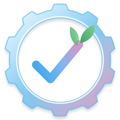
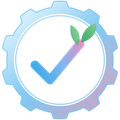
Знак с прозрачным фоном: вкладка (крупнее, без тени) и подвал

Changed region(s): [[0.0, 0.0, 1.0, 1.0], [0.25, 0.5, 0.475, 0.725], [0.475, 0.5, 0.6, 0.65]]

diff --git a/index.html b/index.html
@@ -15,7 +15,7 @@
 <meta property="og:image:width" content="1200">
 <meta property="og:image:height" content="630">
 <meta name="twitter:card" content="summary_large_image">
-<link rel="icon" href="img/favicon.png?v=5" type="image/png">
+<link rel="icon" href="img/favicon.png?v=6" type="image/png">
 <link rel="apple-touch-icon" href="img/apple-touch-icon.png?v=5">
 <link rel="preload" href="fonts/manrope-cyr.woff2" as="font" type="font/woff2" crossorigin>
 <style>@font-face{font-family:'Manrope';font-style:normal;font-weight:300 700;font-display:swap;src:url(fonts/manrope-cyr.woff2) format('woff2');unicode-range:U+0301,U+0400-045F,U+0490-0491,U+04B0-04B1,U+2116}@font-face{font-family:'Manrope';font-style:normal;font-weight:300 700;font-display:swap;src:url(fonts/manrope-lat.woff2) format('woff2');unicode-range:U+0000-00FF,U+0131,U+0152-0153,U+02BB-02BC,U+02C6,U+02DA,U+02DC,U+0304,U+0308,U+0329,U+2000-206F,U+20AC,U+2122,U+2191,U+2193,U+2212,U+2215,U+FEFF,U+FFFD}:root{padding-top:env(safe-area-inset-top,0px);padding-bottom:env(safe-area-inset-bottom,0px)}body{margin:0}
@@ -476,7 +476,7 @@ button.tile:hover{transform:translateY(-2px)}
   </section>
 </main>
 
-<footer><a href="./">Главная</a><a href="otdelka.html">Кейс «Отделка»</a><a href="perevozki.html">Кейс «Перевозки»</a><a href="./#podarok">Подарок: головоломка</a><a href="./#obo-mne">Обо мне</a><a href="https://vk.ru/erpintable" target="_blank" rel="noopener">ВКонтакте</a><a href="#" data-avito>Авито</a><a href="#">Профи.ру</a><a href="#">Яндекс Услуги</a><div class="req">ИП&nbsp;Мальцева Ирина Евгеньевна · ОГРНИП 309231530100060 от&nbsp;28.10.2009 · Работаю по&nbsp;договору, оплата на&nbsp;расчётный счёт</div><div class="motto"><img src="img/vmalom-znak.png" width="40" height="40" alt=""><span><b>vmalom.ru</b>&nbsp;— учёт, верный в&nbsp;малом бизнесе. А&nbsp;«верный в&nbsp;малом и&nbsp;во&nbsp;многом верен» (Лк 16:10)</span></div></footer>
+<footer><a href="./">Главная</a><a href="otdelka.html">Кейс «Отделка»</a><a href="perevozki.html">Кейс «Перевозки»</a><a href="./#podarok">Подарок: головоломка</a><a href="./#obo-mne">Обо мне</a><a href="https://vk.ru/erpintable" target="_blank" rel="noopener">ВКонтакте</a><a href="#" data-avito>Авито</a><a href="#">Профи.ру</a><a href="#">Яндекс Услуги</a><div class="req">ИП&nbsp;Мальцева Ирина Евгеньевна · ОГРНИП 309231530100060 от&nbsp;28.10.2009 · Работаю по&nbsp;договору, оплата на&nbsp;расчётный счёт</div><div class="motto"><img src="img/vmalom-znak.png?v=2" width="40" height="40" alt=""><span><b>vmalom.ru</b>&nbsp;— учёт, верный в&nbsp;малом бизнесе. А&nbsp;«верный в&nbsp;малом и&nbsp;во&nbsp;многом верен» (Лк 16:10)</span></div></footer>
 <div class="modal" id="avm" hidden><div class="mbox gl" role="dialog" aria-modal="true" aria-labelledby="avmt"><button class="mx" type="button" aria-label="Закрыть">×</button><img src="img/avito-card.webp" alt="Обложка объявления: «Сведу то, что не сходится», Архитектор ERP" width="320" height="320"><h3 id="avmt">Как найти меня на&nbsp;Авито</h3><p>Ищите карточку с&nbsp;этой обложкой по&nbsp;запросу:</p><span class="btn sec mail">Разработка учётных систем, CRM и&nbsp;Google Таблиц</span><a class="btn pri" href="https://www.avito.ru/moskva/predlozheniya_uslug?q=%D0%A0%D0%B0%D0%B7%D1%80%D0%B0%D0%B1%D0%BE%D1%82%D0%BA%D0%B0%20%D1%83%D1%87%D1%91%D1%82%D0%BD%D1%8B%D1%85%20%D1%81%D0%B8%D1%81%D1%82%D0%B5%D0%BC%2C%20CRM%20%D0%B8%20Google%20%D0%A2%D0%B0%D0%B1%D0%BB%D0%B8%D1%86" target="_blank" rel="noopener">Открыть поиск Авито</a><small>Запрос уже будет в&nbsp;строке поиска. Нажмите на&nbsp;него выше, чтобы скопировать.</small></div></div>
 <script>
 // при обновлении страницы — всегда наверх

diff --git a/otdelka.html b/otdelka.html
@@ -15,7 +15,7 @@
 <meta property="og:image:width" content="1200">
 <meta property="og:image:height" content="630">
 <meta name="twitter:card" content="summary_large_image">
-<link rel="icon" href="img/favicon.png?v=5" type="image/png">
+<link rel="icon" href="img/favicon.png?v=6" type="image/png">
 <link rel="apple-touch-icon" href="img/apple-touch-icon.png?v=5">
 <link rel="preload" href="fonts/manrope-cyr.woff2" as="font" type="font/woff2" crossorigin>
 <style>@font-face{font-family:'Manrope';font-style:normal;font-weight:300 700;font-display:swap;src:url(fonts/manrope-cyr.woff2) format('woff2');unicode-range:U+0301,U+0400-045F,U+0490-0491,U+04B0-04B1,U+2116}@font-face{font-family:'Manrope';font-style:normal;font-weight:300 700;font-display:swap;src:url(fonts/manrope-lat.woff2) format('woff2');unicode-range:U+0000-00FF,U+0131,U+0152-0153,U+02BB-02BC,U+02C6,U+02DA,U+02DC,U+0304,U+0308,U+0329,U+2000-206F,U+20AC,U+2122,U+2191,U+2193,U+2212,U+2215,U+FEFF,U+FFFD}:root{padding-top:env(safe-area-inset-top,0px);padding-bottom:env(safe-area-inset-bottom,0px)}body{margin:0}
@@ -432,7 +432,7 @@ button.tile:hover{transform:translateY(-2px)}
   </section>
 </main>
 
-<footer><a href="./">Главная</a><a href="otdelka.html">Кейс «Отделка»</a><a href="perevozki.html">Кейс «Перевозки»</a><a href="./#podarok">Подарок: головоломка</a><a href="./#obo-mne">Обо мне</a><a href="https://vk.ru/erpintable" target="_blank" rel="noopener">ВКонтакте</a><a href="#" data-avito>Авито</a><a href="#">Профи.ру</a><a href="#">Яндекс Услуги</a><div class="req">ИП&nbsp;Мальцева Ирина Евгеньевна · ОГРНИП 309231530100060 от&nbsp;28.10.2009 · Работаю по&nbsp;договору, оплата на&nbsp;расчётный счёт</div><div class="motto"><img src="img/vmalom-znak.png" width="40" height="40" alt=""><span><b>vmalom.ru</b>&nbsp;— учёт, верный в&nbsp;малом бизнесе. А&nbsp;«верный в&nbsp;малом и&nbsp;во&nbsp;многом верен» (Лк 16:10)</span></div></footer>
+<footer><a href="./">Главная</a><a href="otdelka.html">Кейс «Отделка»</a><a href="perevozki.html">Кейс «Перевозки»</a><a href="./#podarok">Подарок: головоломка</a><a href="./#obo-mne">Обо мне</a><a href="https://vk.ru/erpintable" target="_blank" rel="noopener">ВКонтакте</a><a href="#" data-avito>Авито</a><a href="#">Профи.ру</a><a href="#">Яндекс Услуги</a><div class="req">ИП&nbsp;Мальцева Ирина Евгеньевна · ОГРНИП 309231530100060 от&nbsp;28.10.2009 · Работаю по&nbsp;договору, оплата на&nbsp;расчётный счёт</div><div class="motto"><img src="img/vmalom-znak.png?v=2" width="40" height="40" alt=""><span><b>vmalom.ru</b>&nbsp;— учёт, верный в&nbsp;малом бизнесе. А&nbsp;«верный в&nbsp;малом и&nbsp;во&nbsp;многом верен» (Лк 16:10)</span></div></footer>
 <div class="modal" id="avm" hidden><div class="mbox gl" role="dialog" aria-modal="true" aria-labelledby="avmt"><button class="mx" type="button" aria-label="Закрыть">×</button><img src="img/avito-card.webp" alt="Обложка объявления: «Сведу то, что не сходится», Архитектор ERP" width="320" height="320"><h3 id="avmt">Как найти меня на&nbsp;Авито</h3><p>Ищите карточку с&nbsp;этой обложкой по&nbsp;запросу:</p><span class="btn sec mail">Разработка учётных систем, CRM и&nbsp;Google Таблиц</span><a class="btn pri" href="https://www.avito.ru/moskva/predlozheniya_uslug?q=%D0%A0%D0%B0%D0%B7%D1%80%D0%B0%D0%B1%D0%BE%D1%82%D0%BA%D0%B0%20%D1%83%D1%87%D1%91%D1%82%D0%BD%D1%8B%D1%85%20%D1%81%D0%B8%D1%81%D1%82%D0%B5%D0%BC%2C%20CRM%20%D0%B8%20Google%20%D0%A2%D0%B0%D0%B1%D0%BB%D0%B8%D1%86" target="_blank" rel="noopener">Открыть поиск Авито</a><small>Запрос уже будет в&nbsp;строке поиска. Нажмите на&nbsp;него выше, чтобы скопировать.</small></div></div>
 <script>
 // при обновлении страницы — всегда наверх

diff --git a/perevozki.html b/perevozki.html
@@ -15,7 +15,7 @@
 <meta property="og:image:width" content="1200">
 <meta property="og:image:height" content="630">
 <meta name="twitter:card" content="summary_large_image">
-<link rel="icon" href="img/favicon.png?v=5" type="image/png">
+<link rel="icon" href="img/favicon.png?v=6" type="image/png">
 <link rel="apple-touch-icon" href="img/apple-touch-icon.png?v=5">
 <link rel="preload" href="fonts/manrope-cyr.woff2" as="font" type="font/woff2" crossorigin>
 <style>@font-face{font-family:'Manrope';font-style:normal;font-weight:300 700;font-display:swap;src:url(fonts/manrope-cyr.woff2) format('woff2');unicode-range:U+0301,U+0400-045F,U+0490-0491,U+04B0-04B1,U+2116}@font-face{font-family:'Manrope';font-style:normal;font-weight:300 700;font-display:swap;src:url(fonts/manrope-lat.woff2) format('woff2');unicode-range:U+0000-00FF,U+0131,U+0152-0153,U+02BB-02BC,U+02C6,U+02DA,U+02DC,U+0304,U+0308,U+0329,U+2000-206F,U+20AC,U+2122,U+2191,U+2193,U+2212,U+2215,U+FEFF,U+FFFD}:root{padding-top:env(safe-area-inset-top,0px);padding-bottom:env(safe-area-inset-bottom,0px)}body{margin:0}
@@ -431,7 +431,7 @@ button.tile:hover{transform:translateY(-2px)}
   </section>
 </main>
 
-<footer><a href="./">Главная</a><a href="otdelka.html">Кейс «Отделка»</a><a href="perevozki.html">Кейс «Перевозки»</a><a href="./#podarok">Подарок: головоломка</a><a href="./#obo-mne">Обо мне</a><a href="https://vk.ru/erpintable" target="_blank" rel="noopener">ВКонтакте</a><a href="#" data-avito>Авито</a><a href="#">Профи.ру</a><a href="#">Яндекс Услуги</a><div class="req">ИП&nbsp;Мальцева Ирина Евгеньевна · ОГРНИП 309231530100060 от&nbsp;28.10.2009 · Работаю по&nbsp;договору, оплата на&nbsp;расчётный счёт</div><div class="motto"><img src="img/vmalom-znak.png" width="40" height="40" alt=""><span><b>vmalom.ru</b>&nbsp;— учёт, верный в&nbsp;малом бизнесе. А&nbsp;«верный в&nbsp;малом и&nbsp;во&nbsp;многом верен» (Лк 16:10)</span></div></footer>
+<footer><a href="./">Главная</a><a href="otdelka.html">Кейс «Отделка»</a><a href="perevozki.html">Кейс «Перевозки»</a><a href="./#podarok">Подарок: головоломка</a><a href="./#obo-mne">Обо мне</a><a href="https://vk.ru/erpintable" target="_blank" rel="noopener">ВКонтакте</a><a href="#" data-avito>Авито</a><a href="#">Профи.ру</a><a href="#">Яндекс Услуги</a><div class="req">ИП&nbsp;Мальцева Ирина Евгеньевна · ОГРНИП 309231530100060 от&nbsp;28.10.2009 · Работаю по&nbsp;договору, оплата на&nbsp;расчётный счёт</div><div class="motto"><img src="img/vmalom-znak.png?v=2" width="40" height="40" alt=""><span><b>vmalom.ru</b>&nbsp;— учёт, верный в&nbsp;малом бизнесе. А&nbsp;«верный в&nbsp;малом и&nbsp;во&nbsp;многом верен» (Лк 16:10)</span></div></footer>
 <div class="modal" id="avm" hidden><div class="mbox gl" role="dialog" aria-modal="true" aria-labelledby="avmt"><button class="mx" type="button" aria-label="Закрыть">×</button><img src="img/avito-card.webp" alt="Обложка объявления: «Сведу то, что не сходится», Архитектор ERP" width="320" height="320"><h3 id="avmt">Как найти меня на&nbsp;Авито</h3><p>Ищите карточку с&nbsp;этой обложкой по&nbsp;запросу:</p><span class="btn sec mail">Разработка учётных систем, CRM и&nbsp;Google Таблиц</span><a class="btn pri" href="https://www.avito.ru/moskva/predlozheniya_uslug?q=%D0%A0%D0%B0%D0%B7%D1%80%D0%B0%D0%B1%D0%BE%D1%82%D0%BA%D0%B0%20%D1%83%D1%87%D1%91%D1%82%D0%BD%D1%8B%D1%85%20%D1%81%D0%B8%D1%81%D1%82%D0%B5%D0%BC%2C%20CRM%20%D0%B8%20Google%20%D0%A2%D0%B0%D0%B1%D0%BB%D0%B8%D1%86" target="_blank" rel="noopener">Открыть поиск Авито</a><small>Запрос уже будет в&nbsp;строке поиска. Нажмите на&nbsp;него выше, чтобы скопировать.</small></div></div>
 <script>
 // при обновлении страницы — всегда наверх
